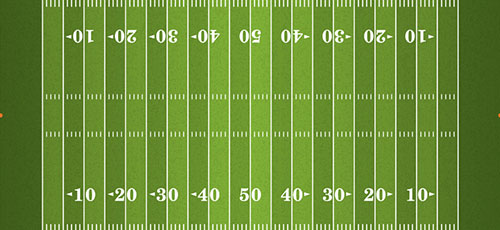
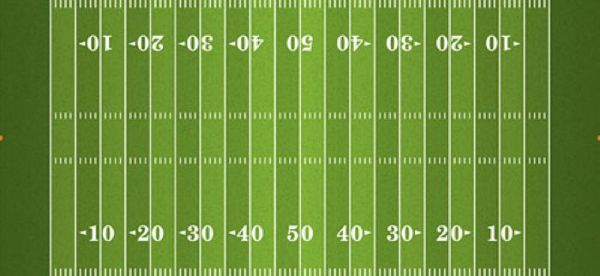
Add files via upload

Changed region(s): [[0.06, 0.0, 0.93, 1.0], [0.99, 0.487, 1.0, 0.5174], [0.0, 0.487, 0.03, 0.5174]]

diff --git a/ImitatingImagesWebpage.html b/ImitatingImagesWebpage.html
@@ -1,0 +1,53 @@
+Noah McNatt
+
+<!DOCTYPE html>
+<html lang="en-US">
+     <head>
+         <title>Imitating Images</title>
+
+         <style>
+            div {text-align:center;
+                 margin-top:70px;
+                 margin-bottom:70px;}
+
+            h1 {text-align:center;
+                font-family:cursive;
+                font-size:70px;}
+
+            p {font-family:Arial, sans-serif;
+               font-size:50px;
+               color:white;
+               text-shadow:3px 3px 4px black;}
+         </style>
+     </head>
+     <body>
+         <h1>Imitating Images</h1>
+         <hr/>
+         <div>
+            <img src="BasicWebDesign/images/penguins.jpg" alt="penguins" style="-webkit-filter:sepia(75%); filter:sepia(75%); border-style:solid; border-width:thin; border-radius:50%;"/>
+         </div>
+
+         <div>
+            <img src="BasicWebDesign/images/football_field.jpg" alt="football field" style="width:600px; height:276px; -webkit-filter:grayscale(100%); filter:grayscale(100%); border:48px solid #000000; border-image:url(BasicWebDesign/images/tic-tac-toe.png) 48 round;"/>
+         </div>
+
+         <div>
+            <img src="BasicWebDesign/images/dinosaur.png" alt="dinosaur" style="-webkit-filter:hue-rotate(90deg) drop-shadow(15px 0px 5px #000000); filter:hue-rotate(90deg) drop-shadow(15px 0px 5px #000000);"/>
+         </div>
+
+         <div style="width:610px; height:400px; background-image:linear-gradient(150deg, #7C88FA, #C8CDFD, white); background-color:#CA82FF; margin:auto;">
+            <img src="BasicWebDesign/images/seagull.png" alt="seagull" style="margin-right:70px;"/>
+         </div>
+
+         <div>
+            <img src="BasicWebDesign/images/butterfly.jpg" alt="butterfly" style="border-radius:100px 0px 100px 0px; -webkit-filter:invert(100%) opacity(70%); filter:invert(100%) opacity(70%);"/>
+         </div>
+
+         <div style="position:relative; width:400px; height:352; margin:auto; margin-bottom:50px;">
+            <div>
+               <img src="BasicWebDesign/images/theater_stage.jpg" alt="theater stage" style="width:400px; height:352; -webkit-filter:blur(3px); filter:blur(3px);"/>
+            </div>
+            <p style="position:absolute; top:35%; left:50%; transform:translate(-50%, -50%);">Presenting</p>
+         </div>
+     </body>
+</html>